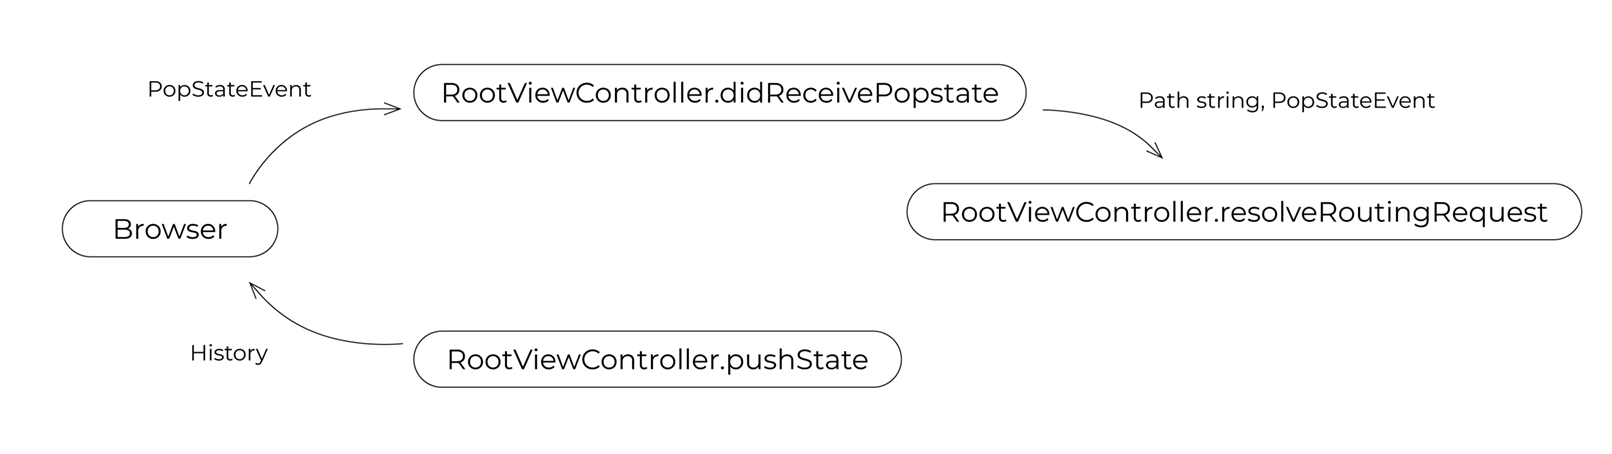
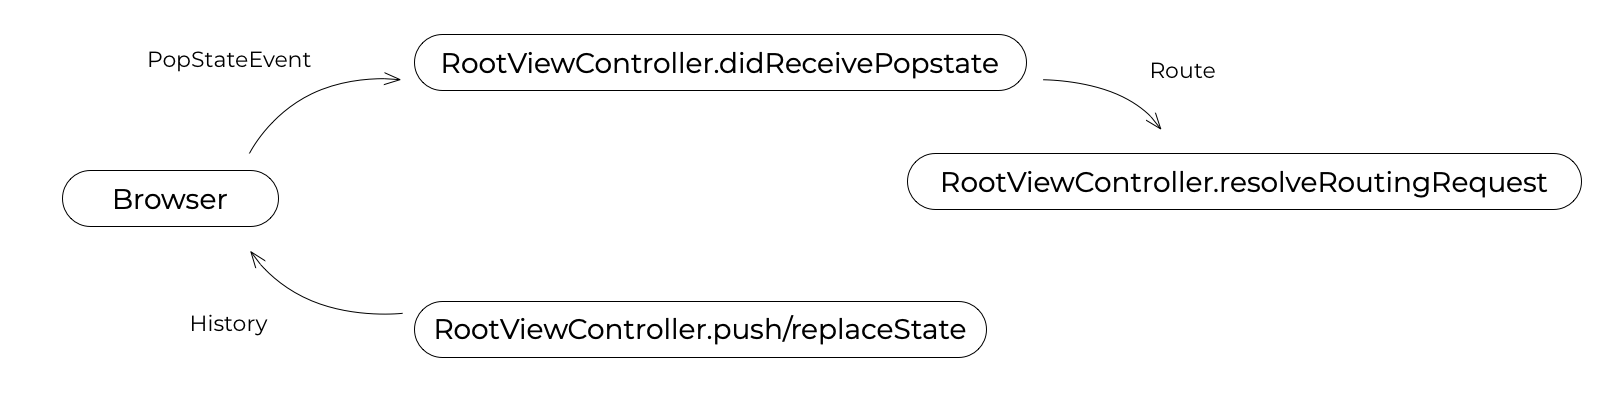
update README. leave pushstate method in DefaultRootViewController. bump version.

diff --git a/src/Craft/UI/DefaultRootViewController.js b/src/Craft/UI/DefaultRootViewController.js
@@ -91,8 +91,6 @@ export class DefaultRootViewController extends DefaultViewController {
 	}
 	
 	/**
-	 * @deprecated
-	 * 
 	 * Wrapping history.pushState to be able to call with named object
 	 * 
 	 * @param {Object} options - options
@@ -105,6 +103,21 @@ export class DefaultRootViewController extends DefaultViewController {
 		let title = options.title;
 		let path  = options.path;
 		window.history.pushState(state,title,path);
+	}
+	
+	/**
+	 * Wrapping history.replaceState to be able to call with named object
+	 * 
+	 * @param {Object} options - options
+	 * @param {Object} options.state - state
+	 * @param {String} options.title - page title
+	 * @param {String} options.path - path (hash)
+	 */
+	replaceState(options){
+		let state = options.state;
+		let title = options.title;
+		let path  = options.path;
+		window.history.replaceState(state,title,path);
 	}
 	
 	/**

diff --git a/README.md b/README.md
@@ -301,17 +301,30 @@ In Craft-UIKit application, RootViewController has responsibility for routing.
 At the time booting application via `Craft.Core.Bootstrap`, 
 listener for `popstate` is registered against `RootViewController.didReceivePopstate`. 
 
-`DefaultRootViewController.didReceivePopstate` extracts hash fragment from the current window.location, 
-and pass it to `resolveRoutingRequest`. 
+The recieved PopState event is passed for Router.
+Default router is `Craft.Core.HashRouter`, using '#' for routing component.
+
+You can define your original router in your application config object like described in the next section. 
+Craft-UIKit provides both HashRouter for '#' and PathRouter for '/'. The former is default.
+
+Router parses the PopState event and window.location, then pass it to `resolveRoutingRequest`. 
 You have to implement your own routing logic in it. Or you have to override `DefaultRootViewController.didReceivePopstate` as you like.
 
 ```javascript 
 class PageController extends Craft.UI.DefaultRootViewController {
     :
-    resolveRoutingRequest(path,event){
-        let match = path.match(/(\w*)/);
-        let menu = match[1] || 'home';
-        this.showMenu(menu,event);
+    resolveRoutingRequest(route){
+        switch(route.path){
+            case 'page1':
+                this.open({ page:new Page1() });
+                break;
+            case 'page2':
+                this.open({ page:new Page2() });
+                break;
+            default:
+                this.open({ page:new NotFound() });
+                break;
+		}
     }
     :
 }
@@ -332,6 +345,7 @@ For convenience, this is implemented as `DefaultRootViewController.bringup`.
 window.onload = function(){
     Craft.Core.Defaults.ALLOW_COMPONENT_SHORTCUT = true;
     Craft.Core.Bootstrap.boot({
+        router : Craft.Core.PathRouter,
         didBootApplication : function(){
             const rootViewController = new PageController();
             Craft.Core.Context.setRootViewController(rootViewController);
